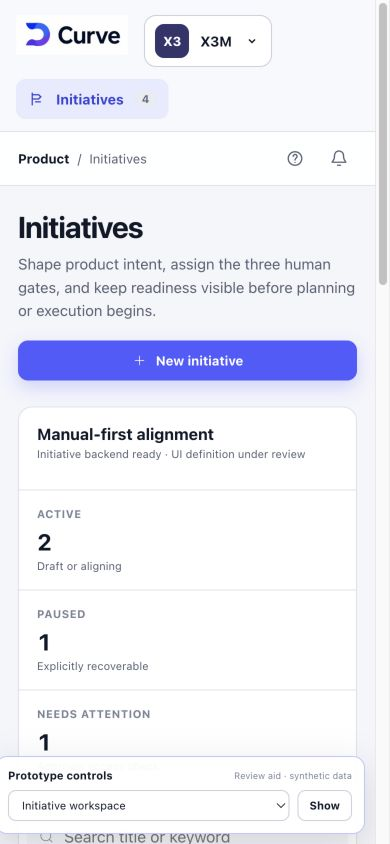
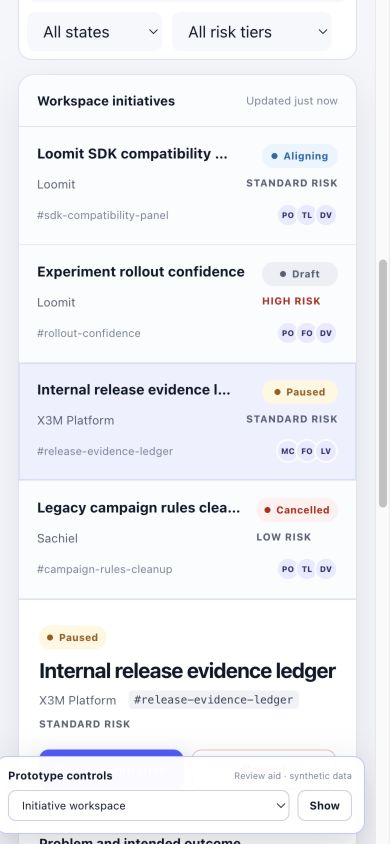
fix(curve): complete M1-01B mobile review corrections

diff --git a/docs/design/prototypes/m1-01b-initiative-shell/index.html b/docs/design/prototypes/m1-01b-initiative-shell/index.html
@@ -352,9 +352,13 @@
       .fact dd { margin: 0; color: var(--ink); font-size: 12px; line-height: 1.45; }
 
       .state-panel { min-height: 586px; display: grid; place-items: center; padding: 40px; text-align: center; background: var(--paper); border: 1px solid var(--line); border-radius: 16px; box-shadow: var(--shadow); }
-      .state-panel svg { width: 42px; height: 42px; margin: 0 auto 18px; color: var(--indigo); }
-      .state-panel h2 { margin: 0; font-size: 23px; }
-      .state-panel p { max-width: 520px; margin: 10px auto 20px; color: var(--muted); line-height: 1.55; }
+      .state-content { width: min(100%, 600px); }
+      .state-icon { display: inline-flex; align-items: center; justify-content: center; width: 56px; height: 56px; margin: 0 auto 20px; color: var(--indigo); background: var(--indigo-soft); border-radius: 16px; }
+      .state-icon svg { width: 28px; height: 28px; }
+      .state-icon.lock { color: #5a6276; background: #eef0f4; }
+      .state-icon.error { color: var(--red); background: var(--red-soft); }
+      .state-panel h2 { width: fit-content; margin: 0 auto; font-size: 23px; line-height: 1.2; letter-spacing: -0.02em; }
+      .state-panel p { max-width: 520px; margin: 11px auto 22px; color: var(--muted); line-height: 1.55; }
       .skeleton { width: min(100%, 680px); display: grid; gap: 12px; }
       .skeleton span { display: block; height: 68px; border-radius: 12px; background: linear-gradient(100deg, #edf0f5 20%, #f7f8fb 38%, #edf0f5 56%); background-size: 200% 100%; animation: shimmer 1.4s ease-in-out infinite; }
       @keyframes shimmer { to { background-position-x: -200%; } }
@@ -446,7 +450,6 @@
         .filter { flex: 1; }
         .workbench { display: block; }
         .initiative-list { border-right: 0; border-bottom: 1px solid var(--line); }
-        .initiative-row:not(.active) { display: none; }
         .detail-head, .detail-main { padding-inline: 20px; }
         .detail-headline { display: block; }
         .drawer { width: 100%; }
@@ -459,6 +462,7 @@
         .toolbar .result-count { display: none; }
         .detail h2 { font-size: 21px; }
         .detail-actions .button { flex: 1; }
+        .state-panel { min-height: 430px; padding: 36px 22px; }
         .form-grid { grid-template-columns: 1fr; }
         .field.full { grid-column: auto; }
         .drawer-head, .form { padding-inline: 20px; }
@@ -562,12 +566,12 @@
         <header class="drawer-head"><div><h2 id="drawer-title">New initiative</h2><p>Create a governed manual-first Initiative under one active Product.</p></div><button class="icon-button" id="close-drawer" type="button" aria-label="Close new initiative form"><svg aria-hidden="true" viewBox="0 0 24 24" fill="none" stroke="currentColor"><path d="m6 6 12 12M18 6 6 18"/></svg></button></header>
         <form class="form" id="initiative-form" novalidate>
           <div class="form-grid">
-            <div class="field full"><label for="title">Title <span>Required</span></label><input id="title" name="title" autocomplete="off" value="Improve experiment rollout confidence" required aria-describedby="title-error" /><span class="field-error" id="title-error">Enter a title.</span></div>
+            <div class="field full"><label for="title">Title <span>Required</span></label><input id="title" name="title" autocomplete="off" placeholder="e.g. Improve experiment rollout confidence" required aria-describedby="title-error" /><span class="field-error" id="title-error">Enter a title.</span></div>
             <div class="field"><label for="product">Product <span>Active only</span></label><select id="product" name="product"><option>Loomit</option><option>X3M Platform</option><option>Sachiel</option></select></div>
-            <div class="field"><label for="keyword">Keyword <span>Workspace unique</span></label><input id="keyword" name="keyword" autocomplete="off" value="rollout-confidence" pattern="[A-Za-z0-9][A-Za-z0-9-]{0,49}" required aria-describedby="keyword-error" /><span class="field-error" id="keyword-error">Use letters, numbers, and hyphens.</span></div>
+            <div class="field"><label for="keyword">Keyword <span>Workspace unique</span></label><input id="keyword" name="keyword" autocomplete="off" placeholder="e.g. rollout-confidence" pattern="[A-Za-z0-9][A-Za-z0-9-]{0,49}" required aria-describedby="keyword-error" /><span class="field-error" id="keyword-error">Use letters, numbers, and hyphens.</span></div>
             <div class="field"><label for="risk">Risk tier</label><select id="risk" name="risk" aria-describedby="approver-rule"><option>STANDARD</option><option>LOW</option><option>HIGH</option></select></div>
             <div class="field"><label for="mode">Mode</label><select id="mode" name="mode"><option>STANDALONE</option><option disabled>ROADMAP — available in M2</option></select></div>
-            <div class="field full"><label for="description">Problem and intended outcome <span>Required · Markdown</span></label><textarea id="description" name="description" required aria-describedby="description-error">Reduce uncertainty when product teams move validated experiments toward a staged rollout, while keeping every human decision and rollback condition visible.</textarea><span class="field-error" id="description-error">Describe the problem and intended outcome.</span></div>
+            <div class="field full"><label for="description">Problem and intended outcome <span>Required · Markdown</span></label><textarea id="description" name="description" placeholder="Describe the problem, intended outcome, and important constraints." required aria-describedby="description-error"></textarea><span class="field-error" id="description-error">Describe the problem and intended outcome.</span></div>
             <div class="field"><label for="product-approver">Product Approver</label><select id="product-approver" aria-describedby="approver-rule approver-error"><option value="paula-ortega" data-initials="PO" data-name="Paula Ortega">Paula Ortega · PO</option><option value="federico-ocampo" data-initials="FO" data-name="Federico Ocampo">Federico Ocampo · CTO</option></select></div>
             <div class="field"><label for="technical-approver">Technical Approver</label><select id="technical-approver" aria-describedby="approver-rule approver-error"><option value="tomas-lopez" data-initials="TL" data-name="Tomás López">Tomás López · TL</option><option value="federico-ocampo" data-initials="FO" data-name="Federico Ocampo">Federico Ocampo · CTO</option></select></div>
             <div class="field full"><label for="code-approver">Code Approver</label><select id="code-approver" aria-describedby="approver-rule approver-error"><option value="diego-vega" data-initials="DV" data-name="Diego Vega">Diego Vega · Dev</option><option value="federico-ocampo" data-initials="FO" data-name="Federico Ocampo">Federico Ocampo · CTO</option></select></div>
@@ -599,9 +603,9 @@
         const paths = {
           empty: '<path d="M4 7.5 12 3l8 4.5v9L12 21l-8-4.5z"/><path d="m4 7.5 8 4.5 8-4.5M12 12v9"/>',
           lock: '<rect x="5" y="10" width="14" height="11" rx="2"/><path d="M8 10V7a4 4 0 0 1 8 0v3"/>',
-          error: '<circle cx="12" cy="12" r="9"/><path d="M12 7v6M12 17h.01"/>'
+          error: '<circle cx="12" cy="12" r="9"/><path d="M12 7v6"/><circle cx="12" cy="17.25" r="0.8" fill="currentColor" stroke="none"/>'
         };
-        return `<svg aria-hidden="true" viewBox="0 0 24 24" fill="none" stroke="currentColor">${paths[name]}</svg>`;
+        return `<span class="state-icon ${name}" aria-hidden="true"><svg viewBox="0 0 24 24" fill="none" stroke="currentColor" stroke-linecap="round" stroke-linejoin="round" stroke-width="1.8">${paths[name]}</svg></span>`;
       };
 
       let initiatives = [
@@ -693,7 +697,7 @@
             error: [icon("error"), "Initiatives could not be loaded", "Curve kept the last confirmed workspace state private. Try the authorized request again.", '<button class="button primary" data-retry type="button">Try again</button>']
           };
           const [stateIcon,title,copy,action] = states[name];
-          el["state-panel"].innerHTML = `<div>${stateIcon}<h2 tabindex="-1">${title}</h2><p>${copy}</p>${action}</div>`;
+          el["state-panel"].innerHTML = `<div class="state-content state-${name}">${stateIcon}<h2 tabindex="-1">${title}</h2><p>${copy}</p>${action}</div>`;
           el["state-panel"].querySelector("h2")?.focus();
           el["state-panel"].querySelector("[data-empty-create]")?.addEventListener("click", openDrawer);
           el["state-panel"].querySelector("[data-retry]")?.addEventListener("click", showWorkspace);
@@ -702,8 +706,18 @@
         announce(name === "loading" ? "Loading initiatives" : el["state-panel"].querySelector("h2")?.textContent || "");
       }
 
+      function resetCreateForm() {
+        el["initiative-form"].reset();
+        [el.title, el.keyword, el.description, el["product-approver"], el["technical-approver"], el["code-approver"]].forEach(control => {
+          control.closest(".field").classList.remove("invalid");
+          control.setAttribute("aria-invalid", "false");
+        });
+        el["approver-error"].hidden = true;
+      }
+
       function openDrawer() {
         previousFocus = document.activeElement;
+        resetCreateForm();
         el["drawer-backdrop"].classList.add("visible");
         document.body.style.overflow = "hidden";
         el.title.focus();

diff --git a/docs/technical/ux-m1-01b-initiative-shell.md b/docs/technical/ux-m1-01b-initiative-shell.md
@@ -192,14 +192,14 @@ of the production UI.
 | Check | Evidence |
 | --- | --- |
 | Desktop render | [Desktop review capture](../../.impeccable/review/desktop.png) (default Initiative list/detail state at the 1440 by 1000 review viewport) |
-| Mobile render | [Mobile review capture](../../.impeccable/review/mobile.png) (default Initiative state at the 390 by 844 review viewport) |
-| Responsive layout | No horizontal overflow at either review width; the mobile shell, portfolio, filters, list/detail stack, drawer, and dialog remain within the viewport |
-| Creation | Required-field validation, accepted keyword-format validation, elevated-risk three-person separation, selection-derived gate assignments, focus placement, status announcement, successful Draft creation, selection, and count update exercised |
+| Mobile render | [Mobile review capture](../../.impeccable/review/mobile.png) (four-row filtered-list and stacked-detail state at the 390 by 844 review viewport) |
+| Responsive layout | No horizontal overflow at either review width; every filtered Initiative remains visible in the mobile list before the stacked detail, and the shell, portfolio, filters, drawer, and dialog remain within the viewport |
+| Creation | Each opening starts with blank authored fields and safe selector defaults; required-field validation, accepted keyword-format validation, elevated-risk three-person separation, selection-derived gate assignments, focus placement, status announcement, successful Draft creation, selection, and count update exercised |
 | Lifecycle | `DRAFT -> ALIGNING -> PAUSED -> ALIGNING -> CANCELLED` exercised; cancellation confirmation displayed and terminal actions removed |
-| Recovery states | Permission back-navigation, safe-error retry, and empty-state create action exercised |
+| Recovery states | Permission back-navigation, safe-error retry, empty-state create action, state-specific icon treatment, and mobile panel spacing exercised |
 | Browser diagnostics | No console warning or error recorded during the exercised paths |
 | Mechanical detector | Regex fallback completed because optional HTML parser modules were unavailable; its Inter warning is an accepted continuation of the approved M0-S4 Curve shell typography rather than a new visual-world decision |
-| Finish review | Prescribed in-thread fallback used because collaboration slots were occupied; the correction pass rechecked the complete create path, 1440 px desktop and 390 px mobile renders, state-badge geometry, gate/footer initials, and Help icon; no additional blocking defect found |
+| Finish review | Prescribed in-thread fallback used because collaboration slots were occupied; the second correction pass rechecked fresh-form state, successful-creation reset, four-row mobile visibility, filter-result accuracy, recovery-state hierarchy, 1440 px desktop, and 390 px mobile rendering; no additional blocking defect found |
 
 The finish-review verdict means that the artifact is ready for accountable manual
 UX review. It does not populate the approval record or authorize Plane code.
@@ -222,6 +222,23 @@ part of the exact-commit gate until Federico retests the corrected prototype.
 This correction record documents prototype behavior and review evidence. It does
 not mark UX-006-M1-01B (clickable Initiative prototype and task review) or
 UX-007-M1-01B (work-package-linked Initiative screen contract) approved.
+
+## Manual review iteration 2
+
+Federico Ocampo reported T6, T7, and T8 as passing on 2026-08-29. T9 passed
+functionally with visual follow-ups. T10 identified that the mobile list exposed
+only the selected Initiative regardless of filters. Federico also reported that
+the New Initiative form retained values from the prior creation attempt.
+
+| Finding | Reported issue | Correction in this iteration | Retest state |
+| --- | --- | --- | --- |
+| MR-06 | Mobile displayed only the selected Initiative | The mobile rule that hid every non-selected row is removed; all search/filter matches remain visible before the stacked detail | Required |
+| MR-07 | New Initiative retained prior values | Every drawer opening resets authored fields, selector defaults, validation classes, `aria-invalid`, and the approver error before focus enters the form | Required |
+| MR-08 | Recovery states passed functionally with visual issues | Empty, permission, and error states now use compact state-specific icon containers, consistent authored strokes, stronger heading rhythm, and reduced mobile panel height | Required |
+
+T9 remains functionally passed with visual retest required. T10 remains failed
+until Federico confirms the corrected mobile list and completes the remaining
+mobile and keyboard checks.
 
 ## Review decision record
 
